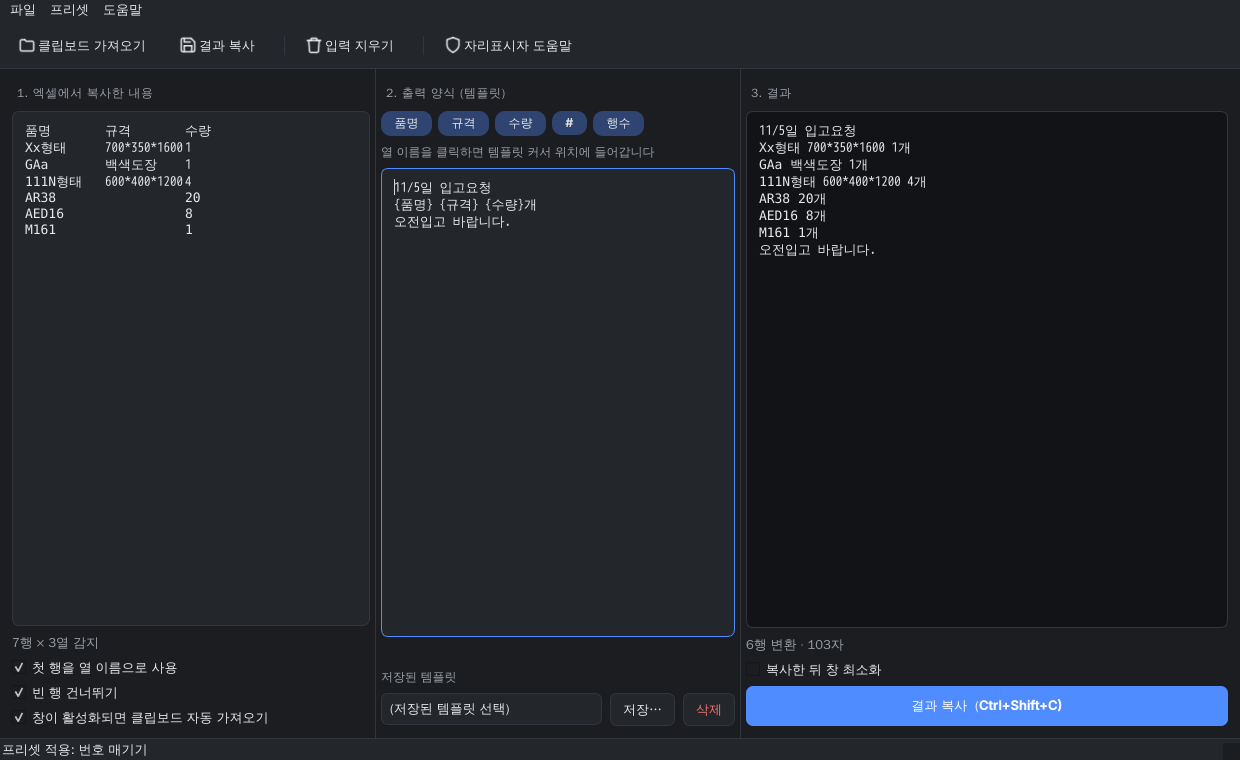
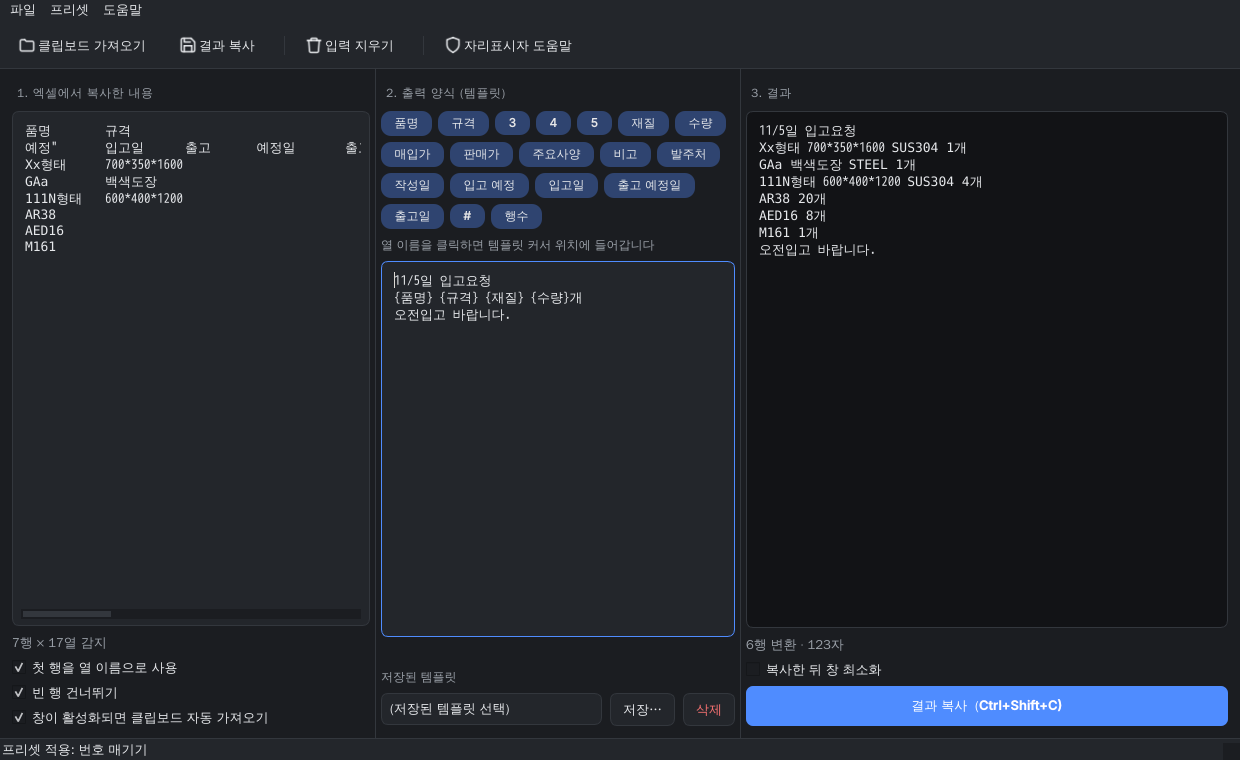
Excel Paster: 실제 시트 헤더 형식 지원 (빈 칸·공백·셀 안 줄바꿈)
- 열 이름 정리: 앞뒤 공백 제거, 셀 안 줄바꿈·연속 공백은 한 칸으로
  (' 매입가 ' → '매입가', '입고\n예정' → '입고 예정')
- 자리표시자는 공백 유무와 무관하게 참조 가능 ({입고 예정} = {입고예정})
- 빈 헤더 칸은 번호({3} {4} {5})로 참조
- 기본 프리셋을 품명·규격·재질·수량 기준으로 변경, 안내문·스크린샷 갱신
- 실제 헤더 행(17열)으로 단위 테스트 추가

Claude-Session: https://claude.ai/code/session_01BsTnYST2jFKeuSFEv2JFZG

diff --git a/excelpaster/core.py b/excelpaster/core.py
@@ -66,13 +66,18 @@ def parse_table(text: str) -> Table:
     return rows
 
 
+def normalize_header(h: str) -> str:
+    """열 이름 정리: 앞뒤 공백 제거, 셀 안의 줄바꿈·연속 공백은 한 칸으로 ('입고\\n예정' → '입고 예정')."""
+    return " ".join(h.split())
+
+
 def split_table(table: Table, header_row: bool, skip_blank_rows: bool = True) -> tuple[list[str], Table]:
     """(열 이름 목록, 데이터 행) 으로 분리. 헤더가 없으면 열 이름은 '1', '2', ..."""
     if not table:
         return [], []
     width = len(table[0])
     if header_row:
-        headers = [h.strip() for h in table[0]]
+        headers = [normalize_header(h) for h in table[0]]
         data = table[1:]
     else:
         headers = [str(i + 1) for i in range(width)]
@@ -158,20 +163,19 @@ def _build_lookup(headers: list[str]) -> dict[str, int]:
     """열 이름 → 인덱스. 같은 이름이 여러 개면 첫 번째. 대소문자 무시 키도 추가."""
     lookup: dict[str, int] = {}
     for i, h in enumerate(headers):
-        h = h.strip()
+        h = normalize_header(h)
         if not h:
             continue
-        lookup.setdefault(h, i)
-        lookup.setdefault(h.lower(), i)
+        for key in (h, h.lower(), h.replace(" ", ""), h.replace(" ", "").lower()):
+            lookup.setdefault(key, i)  # '입고 예정' 은 {입고 예정} 으로도 {입고예정} 으로도 참조 가능
     return lookup
 
 
 def _resolve_index(name: str, lookup: dict[str, int], width: int) -> int | None:
-    name = name.strip()
-    if name in lookup:
-        return lookup[name]
-    if name.lower() in lookup:
-        return lookup[name.lower()]
+    name = normalize_header(name)
+    for key in (name, name.lower(), name.replace(" ", ""), name.replace(" ", "").lower()):
+        if key in lookup:
+            return lookup[key]
     if name.isdigit():
         i = int(name) - 1
         return i if 0 <= i < width else None
@@ -327,8 +331,9 @@ def render(table: Table, spec: FormatSpec) -> str:
 # ---------------------------------------------------------------- 프리셋
 
 BUILTIN_PRESETS: list[FormatSpec] = [
-    FormatSpec(name="입고요청 예시 (머리말·꼬리말)",
-               template="{오늘}일 입고요청\n{1} {2} {3}개\n오전입고 바랍니다."),
+    FormatSpec(name="입고요청 (품명·규격·재질·수량)",
+               template="{오늘}일 입고요청\n{품명} {규격} {재질} {수량}개\n오전입고 바랍니다."),
+    FormatSpec(name="품명·규격·재질·수량 한 줄씩", template="{품명} {규격} {재질} {수량}"),
     FormatSpec(name="열을 쉼표로 이어서 한 줄씩", template="{1}, {2}, {3}"),
     FormatSpec(name="번호 매기기", template="{#}. {1}"),
 ]

diff --git a/tests/test_paster.py b/tests/test_paster.py
@@ -7,6 +7,7 @@ from excelpaster.core import (
     load_presets,
     parse_table,
     render,
+    split_table,
     render_template,
     split_template,
     unknown_placeholders,
@@ -140,3 +141,23 @@ def test_presets_roundtrip_and_bad_input():
     # 이전 버전 프리셋(row_template, mode 등) 도 읽힘
     old = '{"presets":[{"name":"x","mode":"template","row_template":"{이름}","joiner":"\\\\n","extra":1}]}'
     assert load_presets(old)[0] == FormatSpec(name="x", template="{이름}")
+
+
+REAL_HEADER = ("품명\t규격\t\t\t\t재질\t수량\t 매입가 \t 판매가 \t주요사양\t비고\t발주처\t작성일\t"
+               "\"입고\n예정\"\t입고일\t출고       예정일\t출고일\r\n")
+REAL_ROWS = ("Xx형태\t700*350*1600\t\t\t\tSUS304\t1\t10000\t12000\t\t\tA사\t11/1\t11/5\t\t\t\r\n"
+             "AR38\t\t\t\t\t\t20\t\t\t\t\t\t\t\t\t\t\r\n")
+
+
+def test_real_sheet_header_row():
+    t = parse_table(REAL_HEADER + REAL_ROWS)
+    assert len(t[0]) == 17
+    names = column_names(t, True)
+    assert names[:7] == ["품명", "규격", "3", "4", "5", "재질", "수량"]
+    assert names[7] == "매입가" and names[13] == "입고 예정" and names[15] == "출고 예정일"
+    spec = FormatSpec(template="{오늘}일 입고요청\n{품명} {규격} {재질} {수량}개\n오전입고 바랍니다.")
+    out = render(t, spec)
+    assert out.splitlines()[1:] == ["Xx형태 700*350*1600 SUS304 1개", "AR38 20개", "오전입고 바랍니다."]
+    # 셀 안 줄바꿈·공백이 든 열 이름도 여러 방식으로 참조 가능
+    assert render(t, FormatSpec(template="{입고예정}|{입고 예정}|{매입가}|{출고예정일}")).splitlines()[0] == "11/5|11/5|10000|"
+    assert unknown_placeholders("{입고예정} {없음}", split_table(t, True)[0]) == ["없음"]

diff --git a/excelpaster/gui.py b/excelpaster/gui.py
@@ -271,7 +271,7 @@ class MainWindow(QMainWindow):
             "나머지 줄은 한 번만 나옵니다.\n\n"
             "예)\n"
             "11/5일 입고요청\n"
-            "{품명} {규격} {수량}개\n"
+            "{품명} {규격} {재질} {수량}개\n"
             "오전입고 바랍니다.\n\n"
             "{열이름} 또는 {1} {2} 로 셀 값을 넣습니다. 자세한 것은 F1.")
         self.template.textChanged.connect(self._on_spec_changed)
